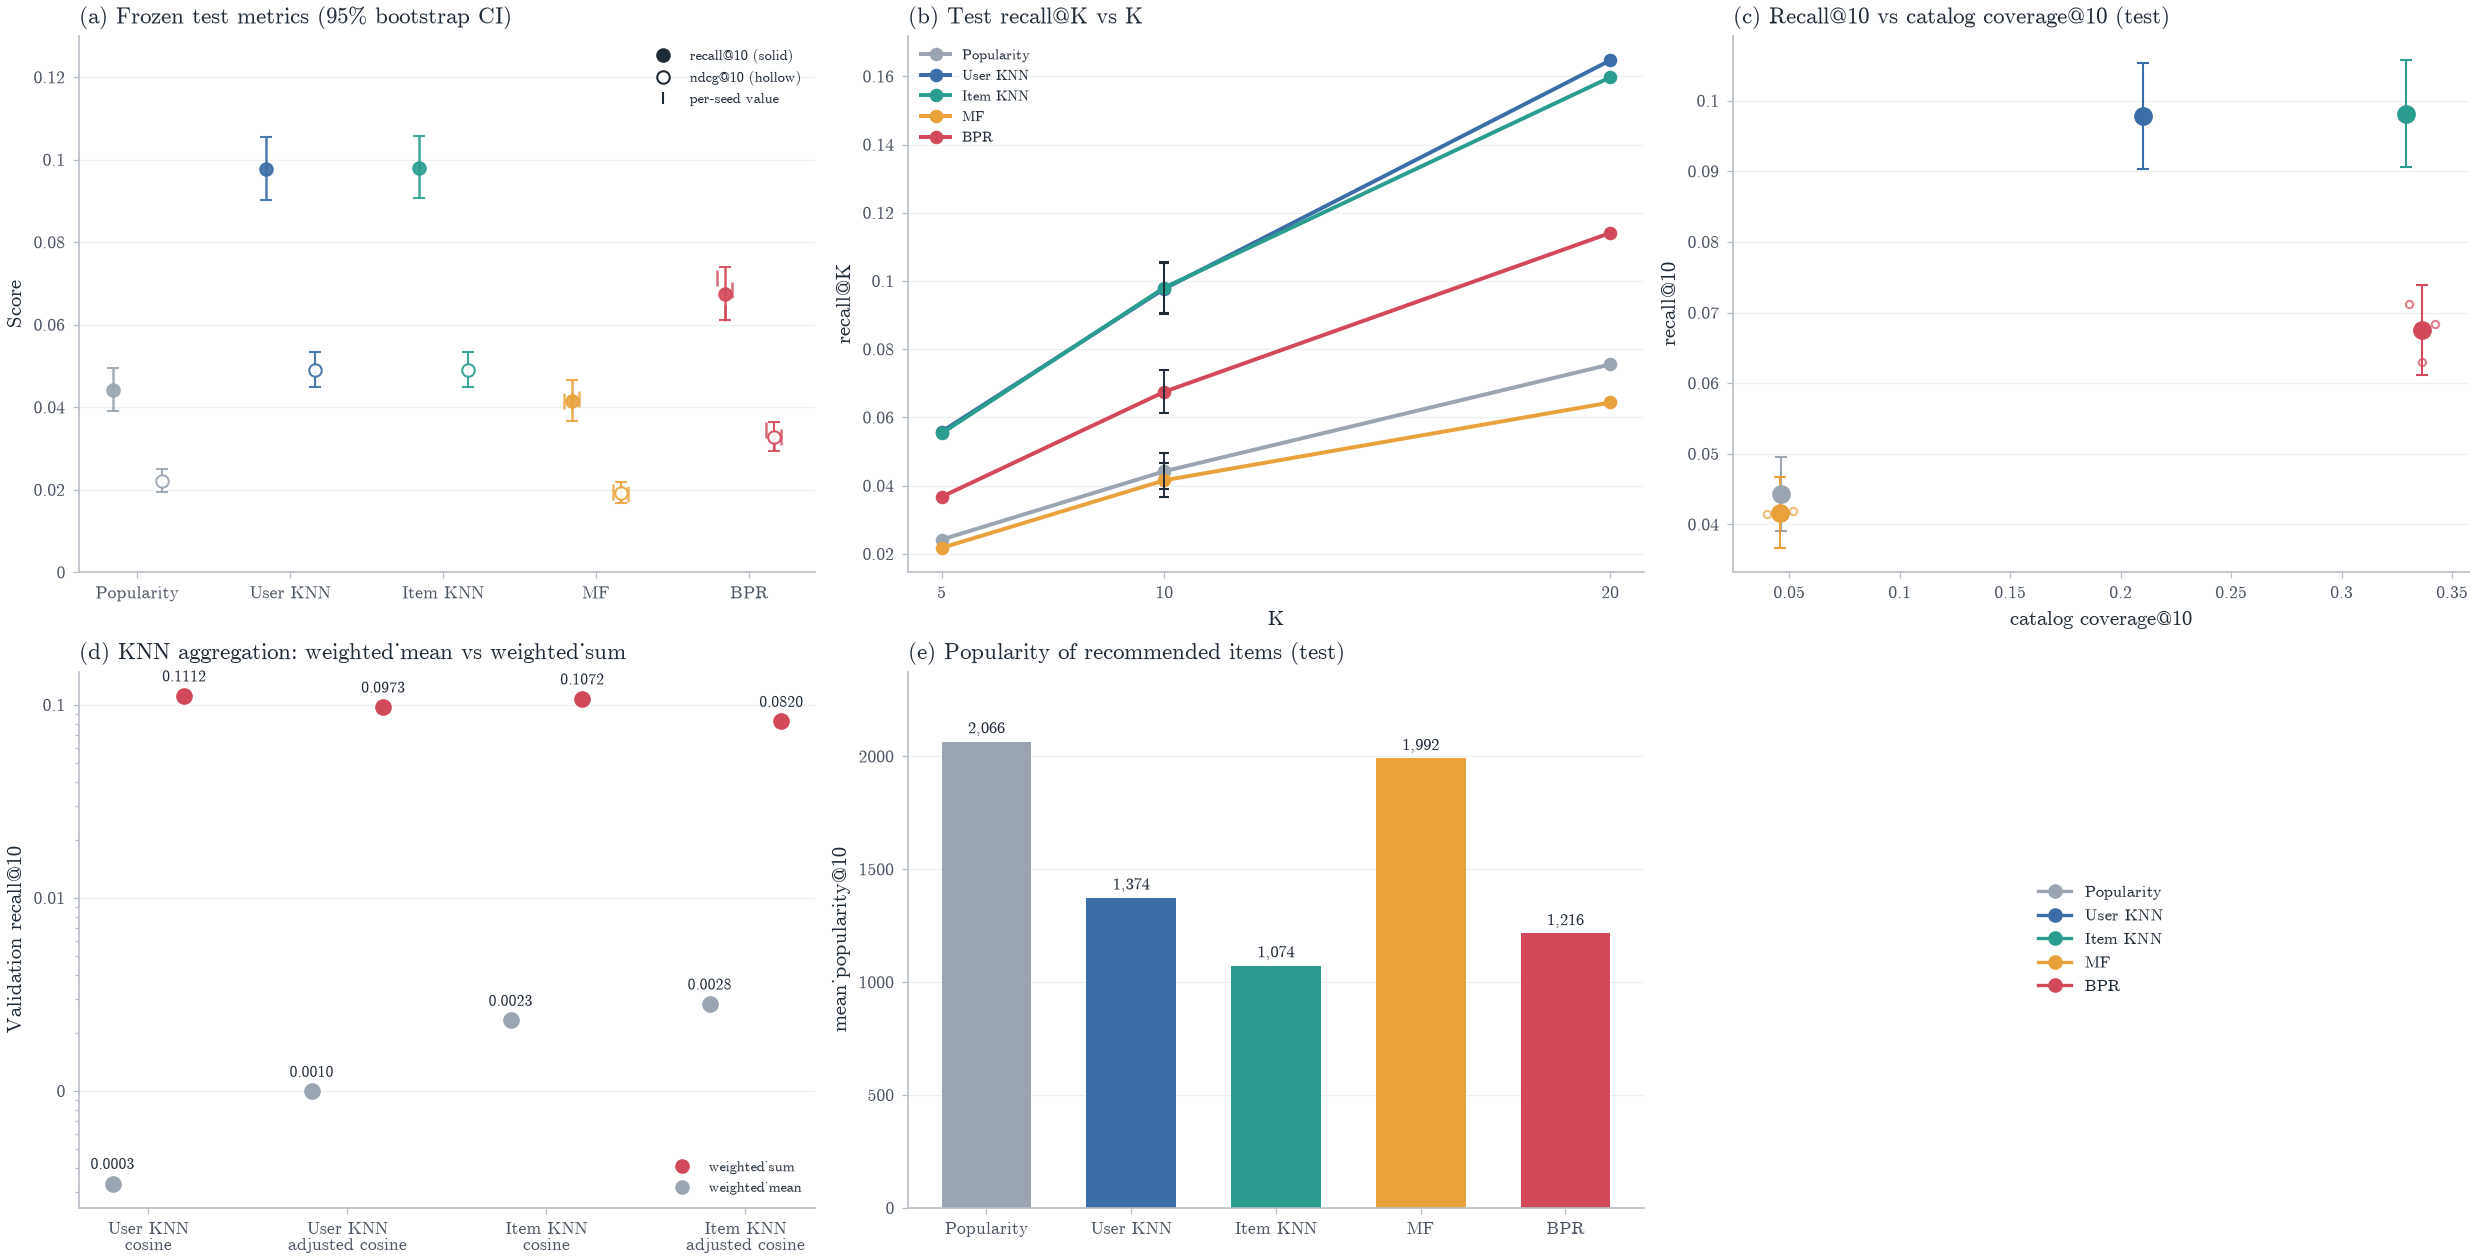
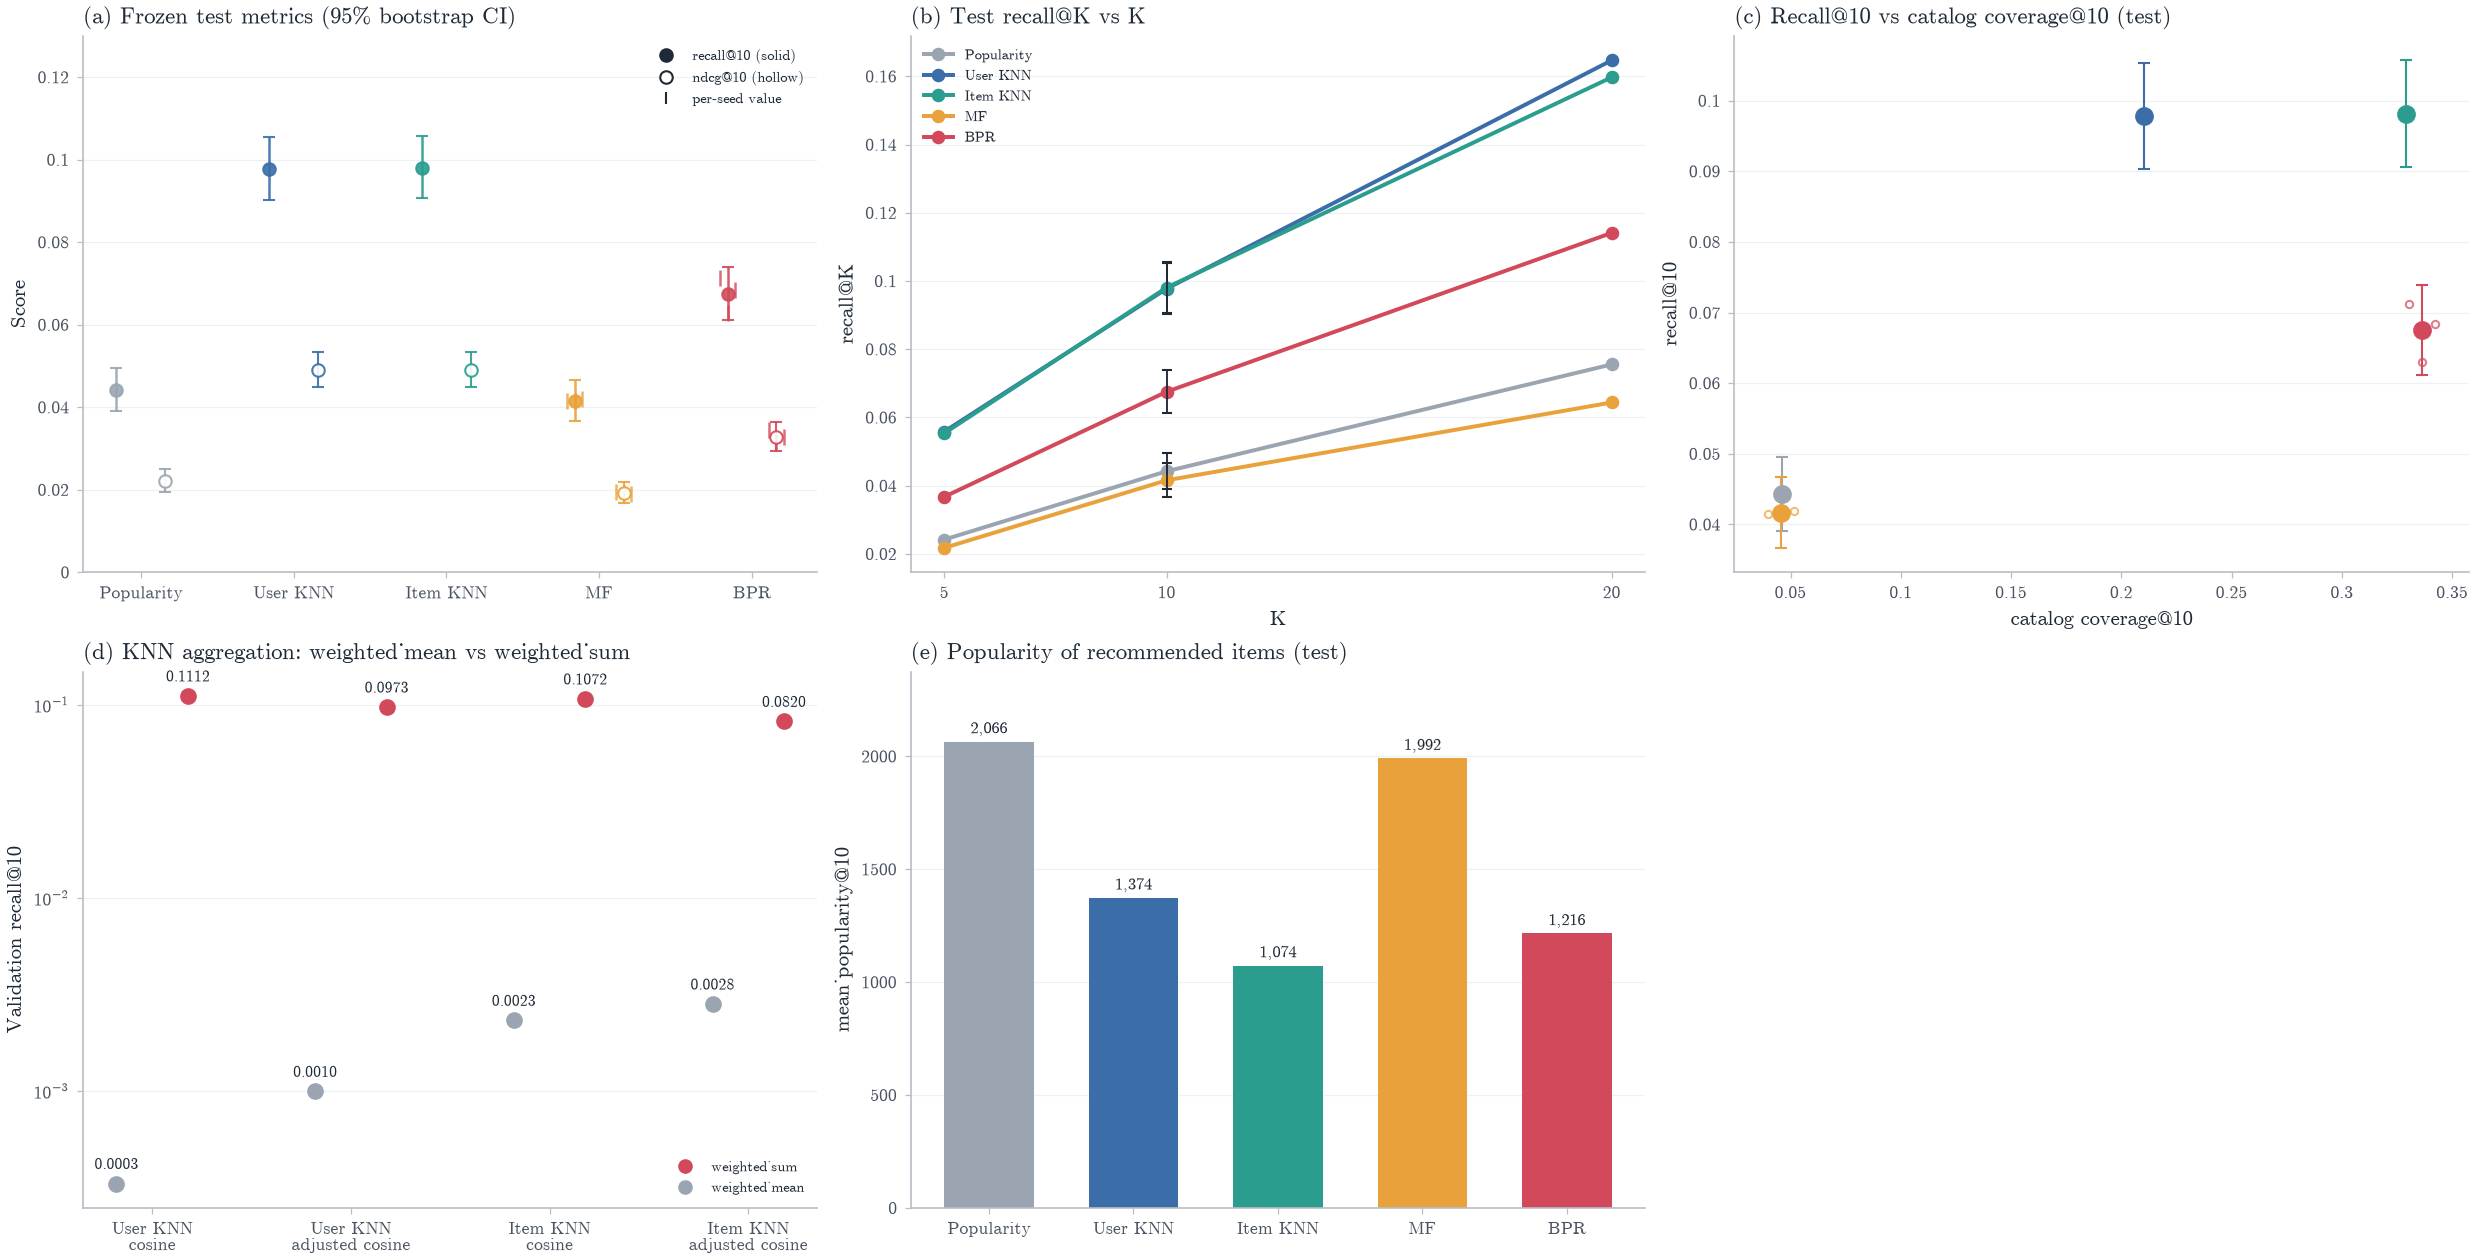
fix(figure): log-scale panel d, drop duplicate legend cell
Switch panel (d) from symlog to a true log axis with decade ticks and remove the shared-legend cell that duplicated the per-panel legends. Add the shared render checks.

diff --git a/scripts/render_figure.py b/scripts/render_figure.py
@@ -25,6 +25,7 @@ matplotlib.use("Agg")
 import matplotlib.pyplot as plt
 import matplotlib.ticker as mticker
 import numpy as np
+from matplotlib.collections import PathCollection
 from matplotlib.lines import Line2D
 
 INK = "#1F2A37"
@@ -174,6 +175,8 @@ def verify_categories() -> None:
 def _all_texts(fig: plt.Figure) -> list[plt.Text]:
     items = []
     for ax in fig.axes:
+        if not ax.axison:
+            continue
         cand = [ax.title, ax.xaxis.label, ax.yaxis.label]
         cand += list(ax.texts)
         for axis in (ax.xaxis, ax.yaxis):
@@ -375,6 +378,175 @@ def check_legend_pixels(fig: plt.Figure, path: Path) -> list[str]:
     return out
 
 
+
+def check_empty_axes(fig: plt.Figure) -> list[str]:
+    """Every axes must contain at least one plotted artist."""
+    fig.canvas.draw()
+    fig.canvas.draw()
+    out = []
+    for i, ax in enumerate(fig.axes):
+        if not ax.axison:
+            continue
+        artists = (len(ax.lines) + len(ax.collections)
+                   + len(ax.patches) + len(ax.images))
+        if artists == 0:
+            out.append(f"axes {i} has no plotted artists")
+    return out
+
+
+def check_offscale(fig: plt.Figure) -> list[str]:
+    """Every data point must lie inside its axes limits."""
+    fig.canvas.draw()
+    fig.canvas.draw()
+    out = []
+    eps = 1e-9
+    for i, ax in enumerate(fig.axes):
+        x0, x1 = ax.get_xlim()
+        y0, y1 = ax.get_ylim()
+        for coll in ax.collections:
+            if (coll.get_offset_transform() != ax.transData
+                    or not isinstance(coll, PathCollection)):
+                continue
+            offs = coll.get_offsets()
+            if len(offs) == 0 or len(offs) > 20000:
+                continue
+            xs, ys = offs[:, 0], offs[:, 1]
+            bad = int(
+                ((xs < x0 - eps) | (xs > x1 + eps)
+                 | (ys < y0 - eps) | (ys > y1 + eps)).sum()
+            )
+            if bad:
+                out.append(
+                    f"axes {i}: {bad} collection points outside limits"
+                )
+        for line in ax.lines:
+            if line.get_transform() != ax.transData:
+                continue
+            try:
+                pts = line.get_path().vertices
+            except Exception:
+                continue
+            if len(pts) == 0:
+                continue
+            xs, ys = pts[:, 0], pts[:, 1]
+            bad = int(
+                ((xs < x0 - eps) | (xs > x1 + eps)
+                 | (ys < y0 - eps) | (ys > y1 + eps)).sum()
+            )
+            if bad:
+                out.append(
+                    f"axes {i}: {bad} line vertices outside limits"
+                )
+        ren = fig.canvas.get_renderer()
+        bb = ax.get_window_extent(ren)
+        clipped = 0
+        for patch in ax.patches:
+            try:
+                pb = patch.get_window_extent(ren)
+            except Exception:
+                continue
+            if (pb.x0 < bb.x0 - 1 or pb.x1 > bb.x1 + 1
+                    or pb.y0 < bb.y0 - 1 or pb.y1 > bb.y1 + 1):
+                clipped += 1
+        if clipped:
+            out.append(f"axes {i}: {clipped} patches past axes bounds")
+    return out
+
+
+def check_clipped_markers(fig: plt.Figure) -> list[str]:
+    """No marker may extend past the axes bounds."""
+    fig.canvas.draw()
+    fig.canvas.draw()
+    ren = fig.canvas.get_renderer()
+    out = []
+    for i, ax in enumerate(fig.axes):
+        bb = ax.get_window_extent(ren)
+        px_per_pt = fig.dpi / 72.0
+        flagged = False
+        for coll in ax.collections:
+            if (coll.get_offset_transform() != ax.transData or flagged
+                    or not isinstance(coll, PathCollection)):
+                continue
+            offs = coll.get_offsets()
+            if len(offs) == 0:
+                continue
+            try:
+                sizes = np.asarray(coll.get_sizes(), dtype=float)
+            except Exception:
+                sizes = np.array([])
+            if len(sizes) == len(offs) and len(sizes):
+                radii_px = np.sqrt(sizes) / 2.0 * px_per_pt
+            elif len(sizes):
+                radii_px = np.full(
+                    len(offs), np.sqrt(sizes.max()) / 2.0 * px_per_pt
+                )
+            else:
+                radii_px = np.full(len(offs), 3.0 * px_per_pt)
+            pts = ax.transData.transform(offs)
+            hit = (
+                (pts[:, 0] - radii_px < bb.x0)
+                | (pts[:, 0] + radii_px > bb.x1)
+                | (pts[:, 1] - radii_px < bb.y0)
+                | (pts[:, 1] + radii_px > bb.y1)
+            ).any()
+            if hit:
+                out.append(f"axes {i}: marker extends past axes bounds")
+                flagged = True
+        for line in ax.lines:
+            if flagged:
+                break
+            if line.get_transform() != ax.transData:
+                continue
+            marker = line.get_marker()
+            if marker in (None, "", " ", "None", "none", "|", "_"):
+                continue
+            ms = line.get_markersize()
+            radius_px = (ms / 2.0) * px_per_pt
+            pts = ax.transData.transform(line.get_path().vertices)
+            if len(pts) == 0:
+                continue
+            hit = (
+                (pts[:, 0] - radius_px < bb.x0)
+                | (pts[:, 0] + radius_px > bb.x1)
+                | (pts[:, 1] - radius_px < bb.y0)
+                | (pts[:, 1] + radius_px > bb.y1)
+            ).any()
+            if hit:
+                out.append(f"axes {i}: marker extends past axes bounds")
+                flagged = True
+    return out
+
+
+def check_coincident_lines(fig: plt.Figure) -> list[str]:
+    """No two line series may be fully coincident."""
+    fig.canvas.draw()
+    fig.canvas.draw()
+    out = []
+    for i, ax in enumerate(fig.axes):
+        lines = [
+            ln for ln in ax.lines
+            if ln.get_transform() == ax.transData
+        ]
+        seen = False
+        for a in range(len(lines)):
+            if seen:
+                break
+            for b in range(a + 1, len(lines)):
+                pa = lines[a].get_path().vertices
+                pb = lines[b].get_path().vertices
+                if len(pa) != len(pb) or len(pa) == 0:
+                    continue
+                if np.allclose(pa, pb, atol=1e-6, equal_nan=True):
+                    out.append(
+                        f"axes {i}: coincident line series "
+                        f"({lines[a].get_label()!r}, "
+                        f"{lines[b].get_label()!r})"
+                    )
+                    seen = True
+                    break
+    return out
+
+
 def finish(fig: plt.Figure, out: Path) -> None:
     """Verify categorical labels, save, then fail on any check violation."""
     fig.canvas.draw()
@@ -386,6 +558,10 @@ def finish(fig: plt.Figure, out: Path) -> None:
     problems += check_legend_data(fig)
     problems += check_annotation_data(fig)
     problems += check_legend_pixels(fig, out)
+    problems += check_empty_axes(fig)
+    problems += check_offscale(fig)
+    problems += check_clipped_markers(fig)
+    problems += check_coincident_lines(fig)
     plt.close(fig)
     if problems:
         for p in problems[:30]:
@@ -447,7 +623,8 @@ def main() -> None:
     fig, axes = plt.subplots(
         2, 3, figsize=(16.5, 8.4), dpi=DPI, layout="constrained"
     )
-    (a1, a2, a3), (a4, a5, _a6) = axes
+    (a1, a2, a3), (a4, a5, a6) = axes
+    a6.set_axis_off()
 
     # (a) frozen-test recall@10 (solid) and ndcg@10 (hollow) with CIs.
     xticks = np.arange(len(MODEL_ORDER))
@@ -593,6 +770,12 @@ def main() -> None:
         ],
         fontsize=7, loc="best", ncol=1,
     )
+    a4.yaxis.set_major_locator(mticker.LogLocator(base=10))
+    a4.yaxis.set_major_formatter(
+        mticker.LogFormatterMathtext(labelOnlyBase=True)
+    )
+    a4.yaxis.set_minor_locator(mticker.NullLocator())
+    a4.yaxis.set_minor_formatter(mticker.NullFormatter())
 
     # (e) popularity bias, mean_popularity@10 per model on test.
     pops = []
@@ -615,22 +798,6 @@ def main() -> None:
           ylabel="mean_popularity@10")
     cat(a5, "x", xticks, [MODEL_LABELS[m] for m in MODEL_ORDER])
     a5.set_ylim(0, max(pops) * 1.15)
-
-    # Shared method legend lives in the empty cell.
-    _a6.set_xticks([])
-    _a6.set_yticks([])
-    for _sp in _a6.spines.values():
-        _sp.set_visible(False)
-    _a6.set_xlim(0, 1)
-    _a6.set_ylim(0, 1)
-    _a6.legend(
-        handles=[
-            Line2D([0], [0], marker="o", ms=6, ls="-", lw=1.6,
-                   color=MODEL_COLORS[m], label=MODEL_LABELS[m])
-            for m in MODEL_ORDER
-        ],
-        fontsize=8, loc="center", ncol=1,
-    )
 
     finish(fig, OUT)
 
